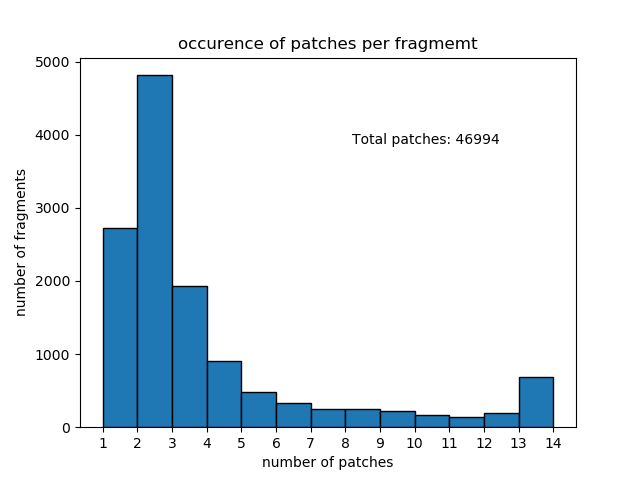
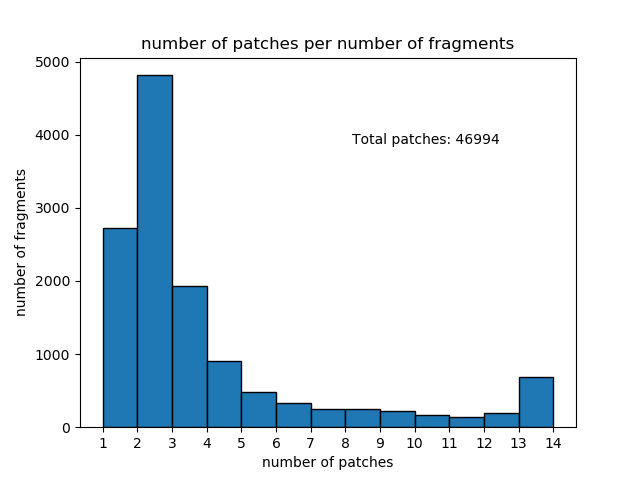
image updated

Changed region(s): [[0.2188, 0.0625, 0.8125, 0.125]]

diff --git a/Statistics/Patches/Statistic.py b/Statistics/Patches/Statistic.py
@@ -45,7 +45,7 @@ class statistic(object):
         unique = np.sort(np.unique(self.arr_patches_per_fragment))
         fig,ax = plt.subplots(1,1)
         ax.hist(self.arr_patches_per_fragment, bins = unique, edgecolor='black', linewidth=1.0)
-        ax.set_title("occurence of patches per fragmemt")
+        ax.set_title("number of patches per number of fragments")
         ax.set_xticks(unique)
         ax.set_xlabel('number of patches')
         ax.set_ylabel('number of fragments')
